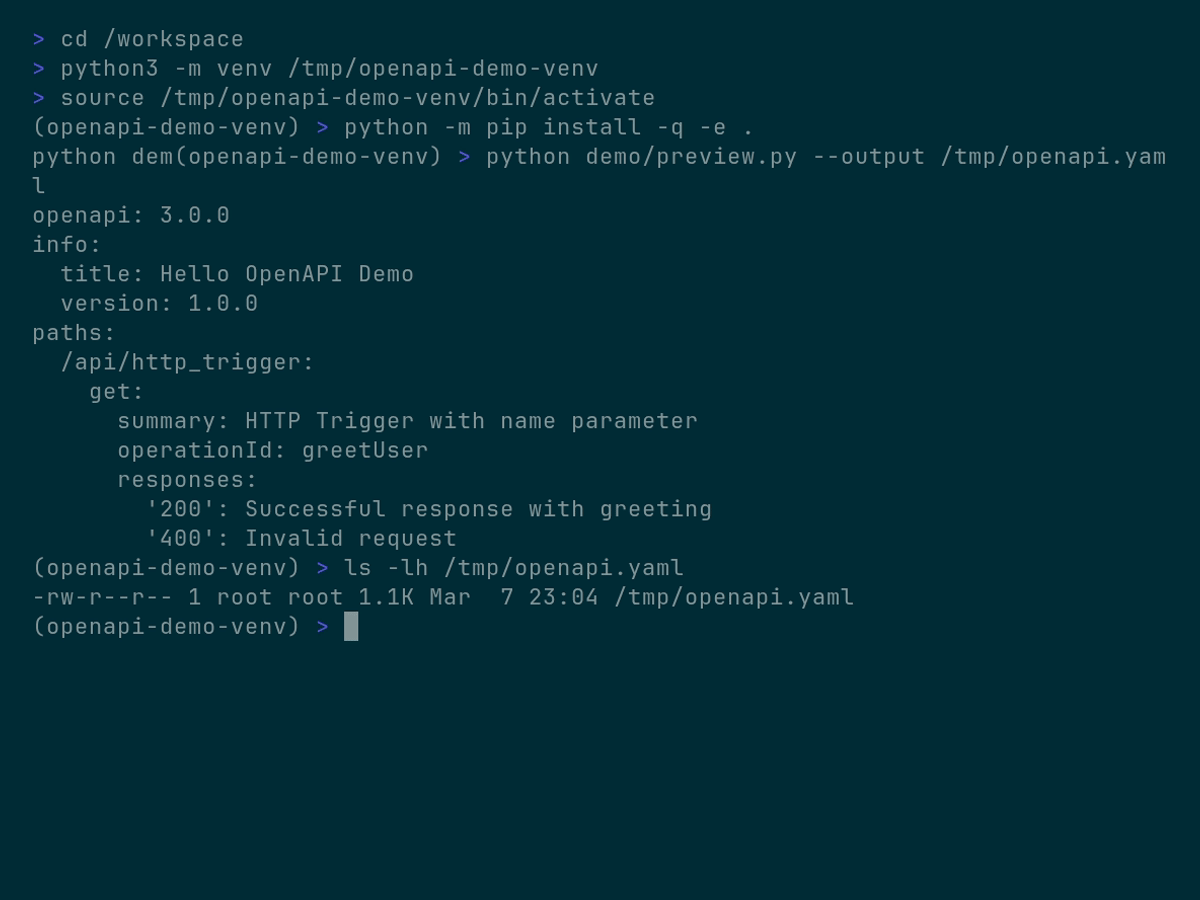
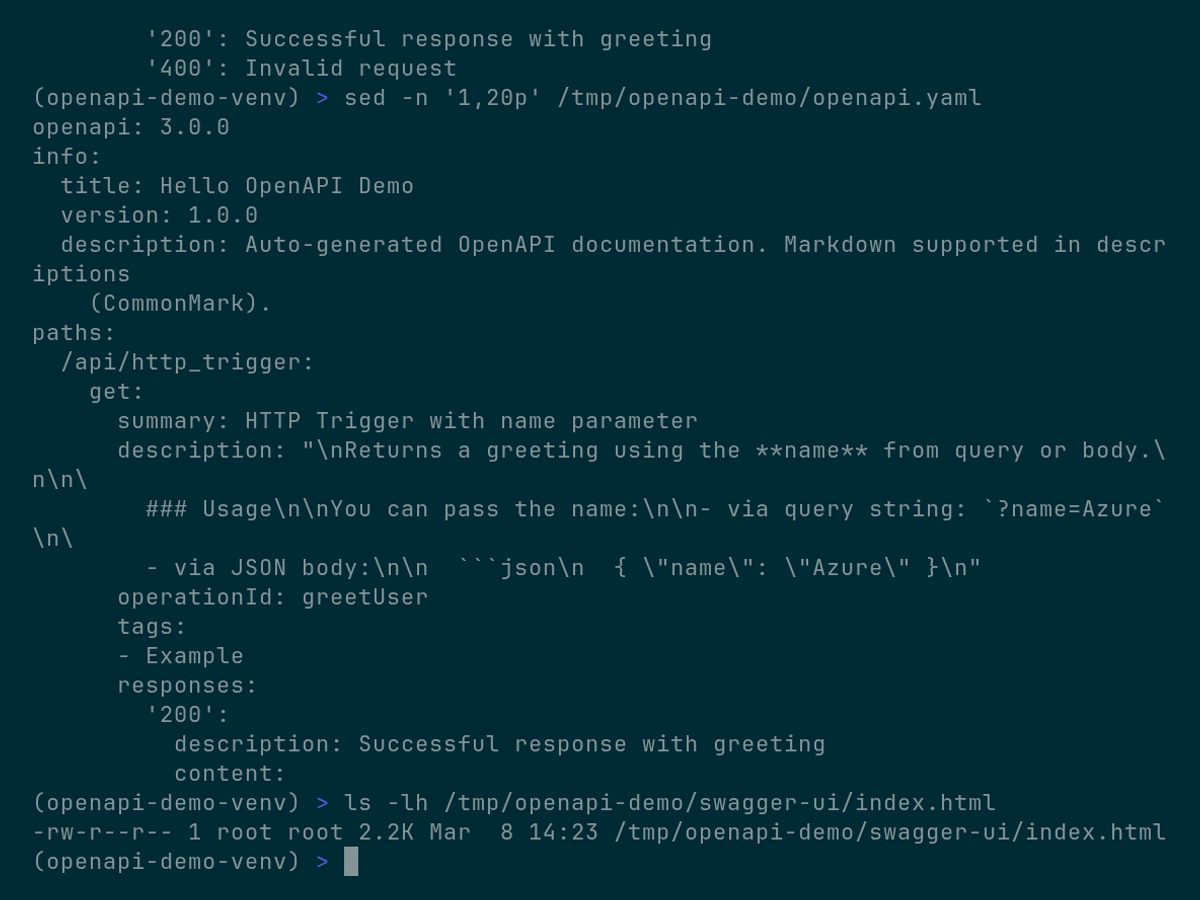
docs: run the representative example in the openapi demo

diff --git a/demo/run_hello_openapi_example.py b/demo/run_hello_openapi_example.py
@@ -8,11 +8,26 @@ import sys
 import yaml
 
 import azure_functions_openapi.decorator as decorator_module
-from azure_functions_openapi.openapi import get_openapi_yaml
+from azure_functions_openapi.openapi import get_openapi_json, get_openapi_yaml
+from azure_functions_openapi.swagger_ui import render_swagger_ui
 
 REPO_ROOT = Path(__file__).resolve().parents[1]
 if str(REPO_ROOT) not in sys.path:
     sys.path.insert(0, str(REPO_ROOT))
+
+
+def _expand_swagger_ui(html: str) -> str:
+    expanded_layout = (
+        "layout: 'BaseLayout',\n"
+        "            docExpansion: 'full',\n"
+        "            defaultModelsExpandDepth: -1,\n"
+        "            tryItOutEnabled: false,\n"
+        "            supportedSubmitMethods: [],"
+    )
+    return html.replace(
+        "layout: 'BaseLayout',",
+        expanded_layout,
+    )
 
 
 def _build_preview(spec: dict[str, object]) -> dict[str, object]:
@@ -58,9 +73,15 @@ def _build_preview(spec: dict[str, object]) -> dict[str, object]:
 
 
 def main() -> None:
-    parser = argparse.ArgumentParser()
-    parser.add_argument("--output", type=Path)
+    parser = argparse.ArgumentParser(
+        description="Run the representative hello_openapi example and generate demo assets."
+    )
+    parser.add_argument("--output-dir", type=Path, required=True)
     args = parser.parse_args()
+
+    output_dir = args.output_dir.resolve()
+    swagger_dir = output_dir / "swagger-ui"
+    swagger_dir.mkdir(parents=True, exist_ok=True)
 
     with decorator_module._registry_lock:
         decorator_module._openapi_registry.clear()
@@ -72,16 +93,35 @@ def main() -> None:
         title="Hello OpenAPI Demo",
         version="1.0.0",
     )
-    if args.output is not None:
-        args.output.write_text(openapi_yaml, encoding="utf-8")
-
-    print(
-        yaml.safe_dump(
-            _build_preview(yaml.safe_load(openapi_yaml)),
-            sort_keys=False,
-            default_flow_style=False,
-        ).strip()
+    openapi_json = get_openapi_json(
+        title="Hello OpenAPI Demo",
+        version="1.0.0",
     )
+    swagger_response = render_swagger_ui(
+        title="Hello OpenAPI Demo",
+        openapi_url="/openapi.json",
+    )
+
+    (output_dir / "openapi.yaml").write_text(openapi_yaml, encoding="utf-8")
+    (output_dir / "openapi.json").write_text(openapi_json, encoding="utf-8")
+    (swagger_dir / "openapi.json").write_text(openapi_json, encoding="utf-8")
+    (swagger_dir / "index.html").write_text(
+        _expand_swagger_ui(swagger_response.get_body().decode("utf-8")),
+        encoding="utf-8",
+    )
+
+    spec = yaml.safe_load(openapi_yaml)
+    preview = yaml.safe_dump(
+        _build_preview(spec),
+        sort_keys=False,
+        default_flow_style=False,
+    ).strip()
+
+    print("Representative example: examples/hello_openapi/function_app.py")
+    print(f"Generated: {output_dir / 'openapi.yaml'}")
+    print(f"Generated: {swagger_dir / 'index.html'}")
+    print()
+    print(preview)
 
 
 if __name__ == "__main__":

diff --git a/README.md b/README.md
@@ -39,7 +39,7 @@ The representative `hello_openapi` example shows the full outcome of adopting th
 ### Generated OpenAPI Output
 
 The terminal demo below is generated from [`demo/openapi-cli.tape`](demo/openapi-cli.tape) with VHS.
-It shows the generated YAML file and the resulting `paths` entry for the example endpoint.
+It installs the package, runs the representative `examples/hello_openapi` example flow, writes the generated OpenAPI files, and shows the resulting YAML output.
 
 ![OpenAPI CLI demo](docs/assets/openapi-cli-demo.gif)
 
@@ -49,7 +49,7 @@ The final terminal state is also captured as a static image for quick inspection
 
 ### Swagger UI Result
 
-The web preview below is generated from the same representative example and captured automatically from a rendered Swagger UI page.
+The web preview below is generated from the same representative example and captured automatically from the rendered Swagger UI page produced by that example flow.
 
 ![OpenAPI Swagger UI preview](docs/assets/hello_openapi_swagger_ui_preview.png)
 

diff --git a/demo/README.md b/demo/README.md
@@ -2,6 +2,6 @@
 
 The README demo assets are generated from code:
 
-- `openapi-cli.tape` renders the terminal GIF with VHS.
-- `render_hello_openapi_swagger_site.py` builds a static Swagger UI preview site from the representative `hello_openapi` example.
+- `run_hello_openapi_example.py` executes the representative `hello_openapi` example flow and generates the OpenAPI and Swagger UI artifacts used by the README.
+- `openapi-cli.tape` renders the terminal GIF with VHS from that same example execution.
 - `make demo` regenerates both the terminal GIF and the Swagger UI preview image.
